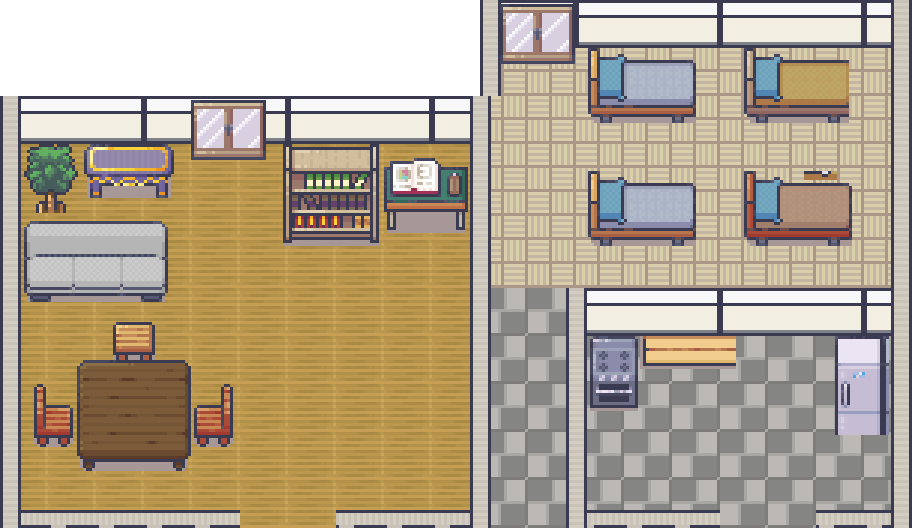
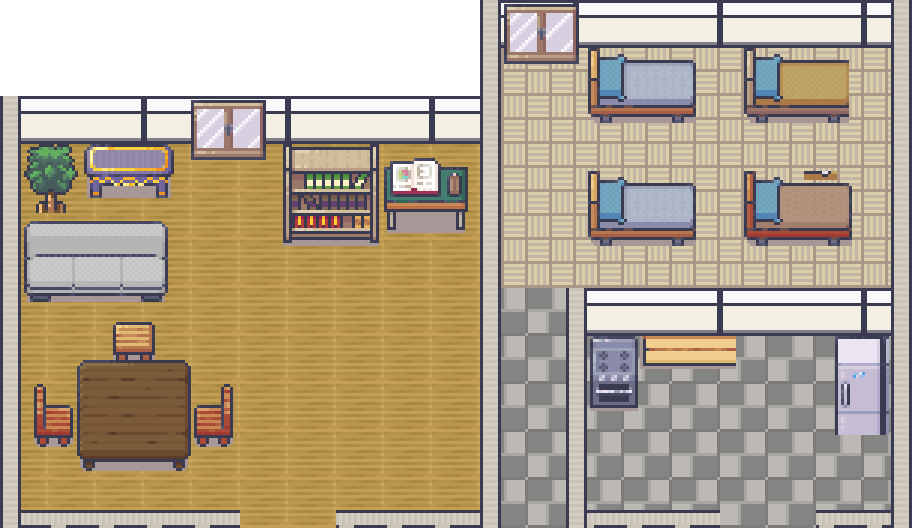
【第 11 单·目验返修一】断墙归一+基准独立推导+人物零叠墙
- 返修1(断墙):卧室西墙原为上下两段错位 10px(上段 x480-501、下段 x470-491
  偏挂客厅侧),沿卧室西边线呈断墙观感;归一为全高同线整柱 x480-501,
  卧室窗东移 4px 零叠墙;纵廊净道 65px≥人宽,墙段逐段清点表随自检输出
- 制度修补(根因):「空房仅墙」基准与成品同源、蓝图错则断言恒绿——新增蓝图
  独立推导闭合巡检:ROOMS/APT 解析自 SIM 块(与拼装常量零共享),推导 8 条墙线
  4 门洞,逐像素巡检基准(登记外零断点+全段一致墙宽阈值+门洞净开口≥48px 对账);
  红绿证明:旧错位注入后墙体完整性仍恒绿、新断言当场变红(V2 一致墙宽 11px<18)
- 返修2(人物叠墙):卧室 door.x 11→11.6(SIM 纯坐标数字),走线 12.1 居纵廊
  净道中线,精灵两侧距墙≥7px;联测 e 系新增 e3「人物与墙体零非法叠压」全天采样
  (行走/静止一并,7 段墙体矩形)与 e3b 检测器有效性证明,全绿
- sim30 双种子输出与 main 逐字节一致照旧(铁笼复验);characters.png 字节零变

Claude-Session: https://claude.ai/code/session_01K51zbzMYdvce7aLqbiaQJQ

Changed region(s): [[0.4912, 0.1818, 0.5526, 1.0], [0.5219, 0.0, 0.6447, 0.1212]]

diff --git a/city-life-framework.html b/city-life-framework.html
@@ -475,7 +475,7 @@ const TILE=16, MAPW=47, MAPH=24, STREET_Y=13;
 const ROOMS=[
   {id:'living', label:'公寓·客厅', x:1,  y:3, w:10, h:9, door:{x:6, side:'b'}, fill:'#242c3b', edge:'#4c5a78'},
   {id:'kitchen',label:'公寓·厨房', x:13, y:7, w:7,  h:5, door:{x:16,side:'b',via:'living'}, fill:'#28303f', edge:'#4c5a78'},
-  {id:'bedroom',label:'公寓·卧室', x:11, y:1, w:9,  h:6, door:{x:11,side:'b'}, fill:'#232a38', edge:'#4c5a78'},
+  {id:'bedroom',label:'公寓·卧室', x:11, y:1, w:9,  h:6, door:{x:11.6,side:'b'}, fill:'#232a38', edge:'#4c5a78'},
   {id:'store',  label:'便利店',    x:22, y:2, w:12, h:10, door:{x:27,side:'b'}, fill:'#2b3346', edge:'#6b8f6b'},
   {id:'office', label:'公司',      x:36, y:3, w:10, h:9, door:{x:40,side:'b'}, fill:'#2a2f42', edge:'#8a7f5a'},
   {id:'park',   label:'滨江公园',  x:1,  y:16,w:17, h:7, door:{x:8, side:'t'}, fill:'#233225', edge:'#4f6b4a'},

diff --git a/tools/asset-pipeline/build_assets.py b/tools/asset-pipeline/build_assets.py
@@ -73,7 +73,7 @@ CORR_COLS = (10, 11)          # 纵廊两列 = 卧室门洞列 = 纵廊街口列
 DOOR_LIVING = (5, 6)          # 客厅底缘门洞图列(2 格)
 DOOR_KITCHEN = (15, 16)       # 厨房底缘门洞图列(2 格)
 WIN_LIVING = (191, 100)       # 客厅北墙窗(落位像素;窗属墙体构件层入基准)
-WIN_BEDROOM = (500, 4)        # 卧室北墙窗
+WIN_BEDROOM = (504, 4)        # 卧室北墙窗(西界墙整柱 480-501 以东,零叠墙)
 
 
 def region(gx, gy):
@@ -143,6 +143,61 @@ GAME_SOLID_CELLS = (
 
 def log(msg):
     print(msg, flush=True)
+
+
+# ------------------- 蓝图独立推导(第 11 单目验制度修补) -------------------
+# 根因:「空房仅墙」基准与成品同源生成,蓝图错则双双错、断言恒绿。
+# 修补:从 city-life-framework.html(SIM 块 ROOMS/APT,唯一权威蓝图)独立解析几何,
+# 推导墙段模型(房间四边闭合、仅门洞处留口),对基准图逐像素巡检;
+# 门洞位置与 door 字段逐一对账。本推导与上方拼装常量零共享。
+
+def parse_blueprint():
+    import re
+    html = os.path.join(os.path.dirname(os.path.abspath(__file__)), '..', '..', 'city-life-framework.html')
+    s = open(html, encoding='utf-8').read()
+    sim = re.search(r'/\*SIM-START\*/([\s\S]*?)/\*SIM-END\*/', s).group(1)
+    rooms = {}
+    for m in re.finditer(r"\{id:'(\w+)',\s*label:'[^']*',\s*x:([\d.]+),\s*y:([\d.]+),"
+                         r"\s*w:([\d.]+),\s*h:([\d.]+),\s*door:\{x:([\d.]+),\s*side:'([bt])'", sim):
+        rooms[m.group(1)] = dict(x=float(m.group(2)), y=float(m.group(3)), w=float(m.group(4)),
+                                 h=float(m.group(5)), doorx=float(m.group(6)), side=m.group(7))
+    am = re.search(r'const APT=\{x:(\d+),y:(\d+),w:(\d+),h:(\d+)\}', s)
+    apt = dict(x=int(am.group(1)), y=int(am.group(2)), w=int(am.group(3)), h=int(am.group(4)))
+    return rooms, apt
+
+
+def derive_wall_model(rooms, apt):
+    """墙段模型:8 条墙线(图内像素),h 段带门洞登记;附纵廊推导矩形(世界坐标)。"""
+    lv, kt, bd = rooms['living'], rooms['kitchen'], rooms['bedroom']
+    px = lambda wx: int(round((wx - apt['x']) * C))
+    py = lambda wy: int(round((wy - apt['y']) * C))
+    south = apt['y'] + apt['h']
+    cor = dict(x0=float(int(bd['doorx'])), x1=float(int(bd['doorx'])) + 2, y0=bd['y'] + bd['h'], y1=south)
+    door2 = lambda r: (px(int(r['doorx'])), px(int(r['doorx']) + 2))
+    segs = [
+        dict(axis='v', pos=px(lv['x']),           lo=py(lv['y']), hi=py(south), gaps=[], label='V1 客厅西外墙 x=%g' % lv['x']),
+        dict(axis='v', pos=px(bd['x']),           lo=py(bd['y']), hi=py(south), gaps=[], label='V2 卧室西外墙+客厅|右翼界墙 x=%g(全高整柱)' % bd['x']),
+        dict(axis='v', pos=px(kt['x']),           lo=py(kt['y']), hi=py(south), gaps=[], label='V3 纵廊|厨房隔断 x=%g' % kt['x']),
+        dict(axis='v', pos=px(bd['x'] + bd['w']), lo=py(bd['y']), hi=py(south), gaps=[], label='V4 东外墙 x=%g' % (bd['x'] + bd['w'])),
+        dict(axis='h', pos=py(bd['y']),           lo=px(bd['x']), hi=px(bd['x'] + bd['w']), gaps=[], label='H1 卧室北墙 y=%g' % bd['y']),
+        dict(axis='h', pos=py(lv['y']),           lo=px(lv['x']), hi=px(lv['x'] + lv['w']), gaps=[], label='H2 客厅北墙 y=%g' % lv['y']),
+        dict(axis='h', pos=py(bd['y'] + bd['h']), lo=px(bd['x']), hi=px(bd['x'] + bd['w']),
+             gaps=[door2(bd)], label='H3 卧室南缘隔墙 y=%g(卧室门洞)' % (bd['y'] + bd['h'])),
+        dict(axis='h', pos=py(south),             lo=px(lv['x']), hi=px(bd['x'] + bd['w']),
+             gaps=[door2(lv), door2(bd), door2(kt)], label='H4 包围盒南缘 y=%g(客厅门/纵廊街口/厨房门)' % south),
+    ]
+    return segs, cor
+
+
+def zone_by_blueprint(rooms, cor, apt, gx, gy):
+    wx, wy = apt['x'] + gx + 0.5, apt['y'] + gy + 0.5
+    for k in ('living', 'kitchen', 'bedroom'):
+        r = rooms[k]
+        if r['x'] <= wx < r['x'] + r['w'] and r['y'] <= wy < r['y'] + r['h']:
+            return k
+    if cor['x0'] <= wx < cor['x1'] and cor['y0'] <= wy < cor['y1']:
+        return 'corridor'
+    return None
 
 
 def resolve_pack(args):
@@ -305,13 +360,13 @@ def build_apartment(root, out_dir):
     for gy in range(GRID_H):
         if gy >= LIVING_TOP_ROW:
             apt.alpha_composite(vtrim, (0, gy * C))                                   # 客厅西外缘
-            apt.alpha_composite(vtrim, (480 - 10, gy * C))                            # 客厅|右翼隔断柱(全高)
-        else:
-            apt.alpha_composite(vtrim, (480, gy * C))                                 # 卧室西外缘(客厅屋线以上)
+        # 卧室西墙=客厅|右翼界墙:自窗顶到房底同线连续整柱 x480-501(第 11 单目验返修一:
+        # 原上下两段错位 10px,沿卧室西边线呈断墙观感;归一后一条直墙,墙段闭合断言兜底)
+        apt.alpha_composite(vtrim, (480, gy * C))
         apt.alpha_composite(vtrim.transpose(Image.FLIP_LEFT_RIGHT), (W - 21, gy * C))  # 东外缘
         if gy >= PART_ROW:
             apt.alpha_composite(vtrim, (576 - 10, gy * C))                            # 纵廊|厨房隔断柱
-    log('  描边完成(底缘门洞 c5-6/c15-16 与纵廊街口 c10-11 已留)')
+    log('  描边完成(底缘门洞 c5-6/c15-16 与纵廊街口 c10-11 已留;西界墙全高同线整柱)')
 
     # 3.5) 墙面构件:窗户×2(挂墙件,属基准层非家具层;墙体完整性断言以本层完成后为基准)
     win = sheet(root, '1_Generic_48x48.png').crop((393, 2085, 468, 2145))
@@ -341,7 +396,7 @@ def build_apartment(root, out_dir):
 
 # -------------------------------- 自检 -------------------------------------
 
-def selfcheck(root, ch, ap, integrity, placed, baseline):
+def selfcheck(root, ch, ap, integrity, placed, baseline, bp):
     fails = []
     def ok(cond, msg):
         log(('  ok : ' if cond else '  FAIL: ') + msg)
@@ -403,8 +458,8 @@ def selfcheck(root, ch, ap, integrity, placed, baseline):
         strip_eq(gx * C, H - 18, (gx + 1) * C, H, f'门洞可走:客厅底缘 c{gx}(纯地板,无实墙无家具)')
     for gx in DOOR_KITCHEN:
         strip_eq(gx * C, H - 18, (gx + 1) * C, H, f'门洞可走:厨房底缘 c{gx}(纯地板,无实墙无家具)')
-    strip_eq(491, 2 * C, 566, H,
-             '纵廊净道可走(x491-566,r2-r10):卧室门厅→隔墙门洞→纵廊→街口全程纯地板(净宽 75px≥人宽 48px)')
+    strip_eq(501, 2 * C, 566, H,
+             '纵廊净道可走(x501-566,r2-r10):卧室门厅→隔墙门洞→纵廊→街口全程纯地板(净宽 65px≥人宽 48px)')
     # 纵廊全柱零家具:c10-11 全行成品与基准逐字节一致(基准含描边与窗,家具零改写)
     corr_ok = True
     for gx in CORR_COLS:
@@ -483,6 +538,93 @@ def selfcheck(root, ch, ap, integrity, placed, baseline):
                 if fin[xx, yy] != bl[xx, yy]:
                     viol += 1
     ok(viol == 0, f'墙体完整性:墙体像素 {wall_px} 处与空房仅墙基准逐像素一致(家具层零改写,违例 {viol})')
+
+    # —— 蓝图独立推导闭合巡检(制度修补):模型解析自 SIM 块 ROOMS/APT,与拼装常量零共享。
+    # 认证链:ROOMS 推导墙段模型 → 认证基准图(空房仅墙)四边闭合仅门洞留口
+    #        → 墙体完整性再保成品零改写基准 → 成品闭合性成立
+    rooms, aptbp = bp
+    ok((GRID_W, GRID_H) == (aptbp['w'], aptbp['h']),
+       f"蓝图对账:APT {aptbp['w']}×{aptbp['h']} = 画幅格数 {GRID_W}×{GRID_H}")
+    lv, kt, bd = rooms['living'], rooms['kitchen'], rooms['bedroom']
+    coh = (lv['x'] + lv['w'] == bd['x'] and bd['y'] + bd['h'] == kt['y']
+           and int(bd['doorx']) + 2 == kt['x']
+           and kt['x'] + kt['w'] == bd['x'] + bd['w'] == aptbp['x'] + aptbp['w']
+           and lv['y'] + lv['h'] == kt['y'] + kt['h'] == aptbp['y'] + aptbp['h'])
+    ok(coh, '蓝图几何自洽:客厅东缘=卧室西缘、卧室南缘=厨房北缘、纵廊东缘=厨房西缘、三区南/东缘归包围盒')
+    segs, cor = derive_wall_model(rooms, aptbp)
+    zone_ok = True
+    for gy in range(GRID_H):
+        for gx in range(GRID_W):
+            if zone_by_blueprint(rooms, cor, aptbp, gx, gy) != region(gx, gy):
+                zone_ok = False
+    ok(zone_ok, '分区对账:19×11 逐格分区(含纵廊与室外)与 ROOMS 独立推导逐格一致')
+    from PIL import ImageChops
+    dmask = None
+    for band in ImageChops.difference(baseline, floor_only).split():
+        b = band.point(lambda v: 255 if v else 0)
+        dmask = b if dmask is None else ImageChops.lighter(dmask, b)
+    def wallpx(x0, y0, x1, y1):
+        x0 = max(0, x0); y0 = max(0, y0); x1 = min(W, x1); y1 = min(H, y1)
+        if x1 <= x0 or y1 <= y0:
+            return 0
+        return dmask.crop((x0, y0, x1, y1)).histogram()[255]
+    log('—— 墙段逐段清点表(蓝图独立推导 · 8 线 4 门洞;基准=空房仅墙)——')
+    closure_ok = recon_ok = True
+    for sg in segs:
+        span = sg['hi'] - sg['lo']
+        breaks = 0
+        free = []
+        run = None
+        for t in range(sg['lo'], sg['hi']):
+            if sg['axis'] == 'v':
+                n = wallpx(sg['pos'] - 24, t, sg['pos'] + 24, t + 1)
+            else:
+                n = wallpx(t, sg['pos'] - 20, t + 1, sg['pos'] + 50)
+            if n >= 8:
+                if run:
+                    free.append(tuple(run)); run = None
+            else:
+                run = [t, t + 1] if run is None else [run[0], t + 1]
+                if not any(g0 - 2 <= t < g1 + 2 for g0, g1 in sg['gaps']):
+                    breaks += 1
+        if run:
+            free.append(tuple(run))
+        # 全段一致墙柱/墙带宽度:逐列(行)统计沿整段的墙覆盖率≥95% 的连续束宽
+        if sg['axis'] == 'v':
+            cols = [x for x in range(sg['pos'] - 24, sg['pos'] + 25)
+                    if span and wallpx(x, sg['lo'], x + 1, sg['hi']) >= 0.95 * span]
+            need = 18
+        else:
+            good = span - sum(g1 - g0 for g0, g1 in sg['gaps'])
+            def rowpx(y):
+                n = wallpx(sg['lo'], y, sg['hi'], y + 1)
+                for g0, g1 in sg['gaps']:
+                    n -= wallpx(g0, y, g1, y + 1)
+                return n
+            cols = [y for y in range(sg['pos'] - 20, sg['pos'] + 50) if good and rowpx(y) >= 0.95 * good]
+            need = 15
+        width = 0
+        cur = 0
+        prev = None
+        for c in cols:
+            cur = cur + 1 if prev is not None and c == prev + 1 else 1
+            width = max(width, cur)
+            prev = c
+        seg_ok = breaks == 0 and width >= need
+        if not seg_ok:
+            closure_ok = False
+        openings = []
+        for g0, g1 in sg['gaps']:
+            net = [f for f in free if f[0] >= g0 - 2 and f[1] <= g1 + 2 and f[1] - f[0] >= 48]
+            if len(net) != 1:
+                recon_ok = False
+            openings.append(net[0] if net else None)
+        gtxt = '' if not sg['gaps'] else ' 门洞:' + ','.join(
+            f"[{g0},{g1})净开口{(o[1] - o[0]) if o else 0}px" for (g0, g1), o in zip(sg['gaps'], openings))
+        log(f"  {'ok ' if seg_ok else 'FAIL'} {sg['label']}  范围[{sg['lo']},{sg['hi']})px"
+            f" 登记外断点{breaks}px 全段一致墙宽{width}px{gtxt}")
+    ok(closure_ok, '墙段闭合性:8 条墙线沿边界逐像素巡检,除登记门洞外无断点,全段一致墙宽达标(竖≥18px/横≥15px)')
+    ok(recon_ok, '门洞对账:全部门洞与 door 字段逐一对应,每洞恰一段≥48px 连续净开口,无登记外通口')
     return fails
 
 
@@ -506,7 +648,7 @@ def main():
     ch = build_characters(root, args.out)
     log('—— 机器拼房 ——')
     ap, integrity, placed, baseline = build_apartment(root, args.out)
-    fails = selfcheck(root, ch, ap, integrity, placed, baseline)
+    fails = selfcheck(root, ch, ap, integrity, placed, baseline, parse_blueprint())
     print_game_registry()
     if fails:
         log(f'\n自检未过 {len(fails)} 项,产物不可交付')
